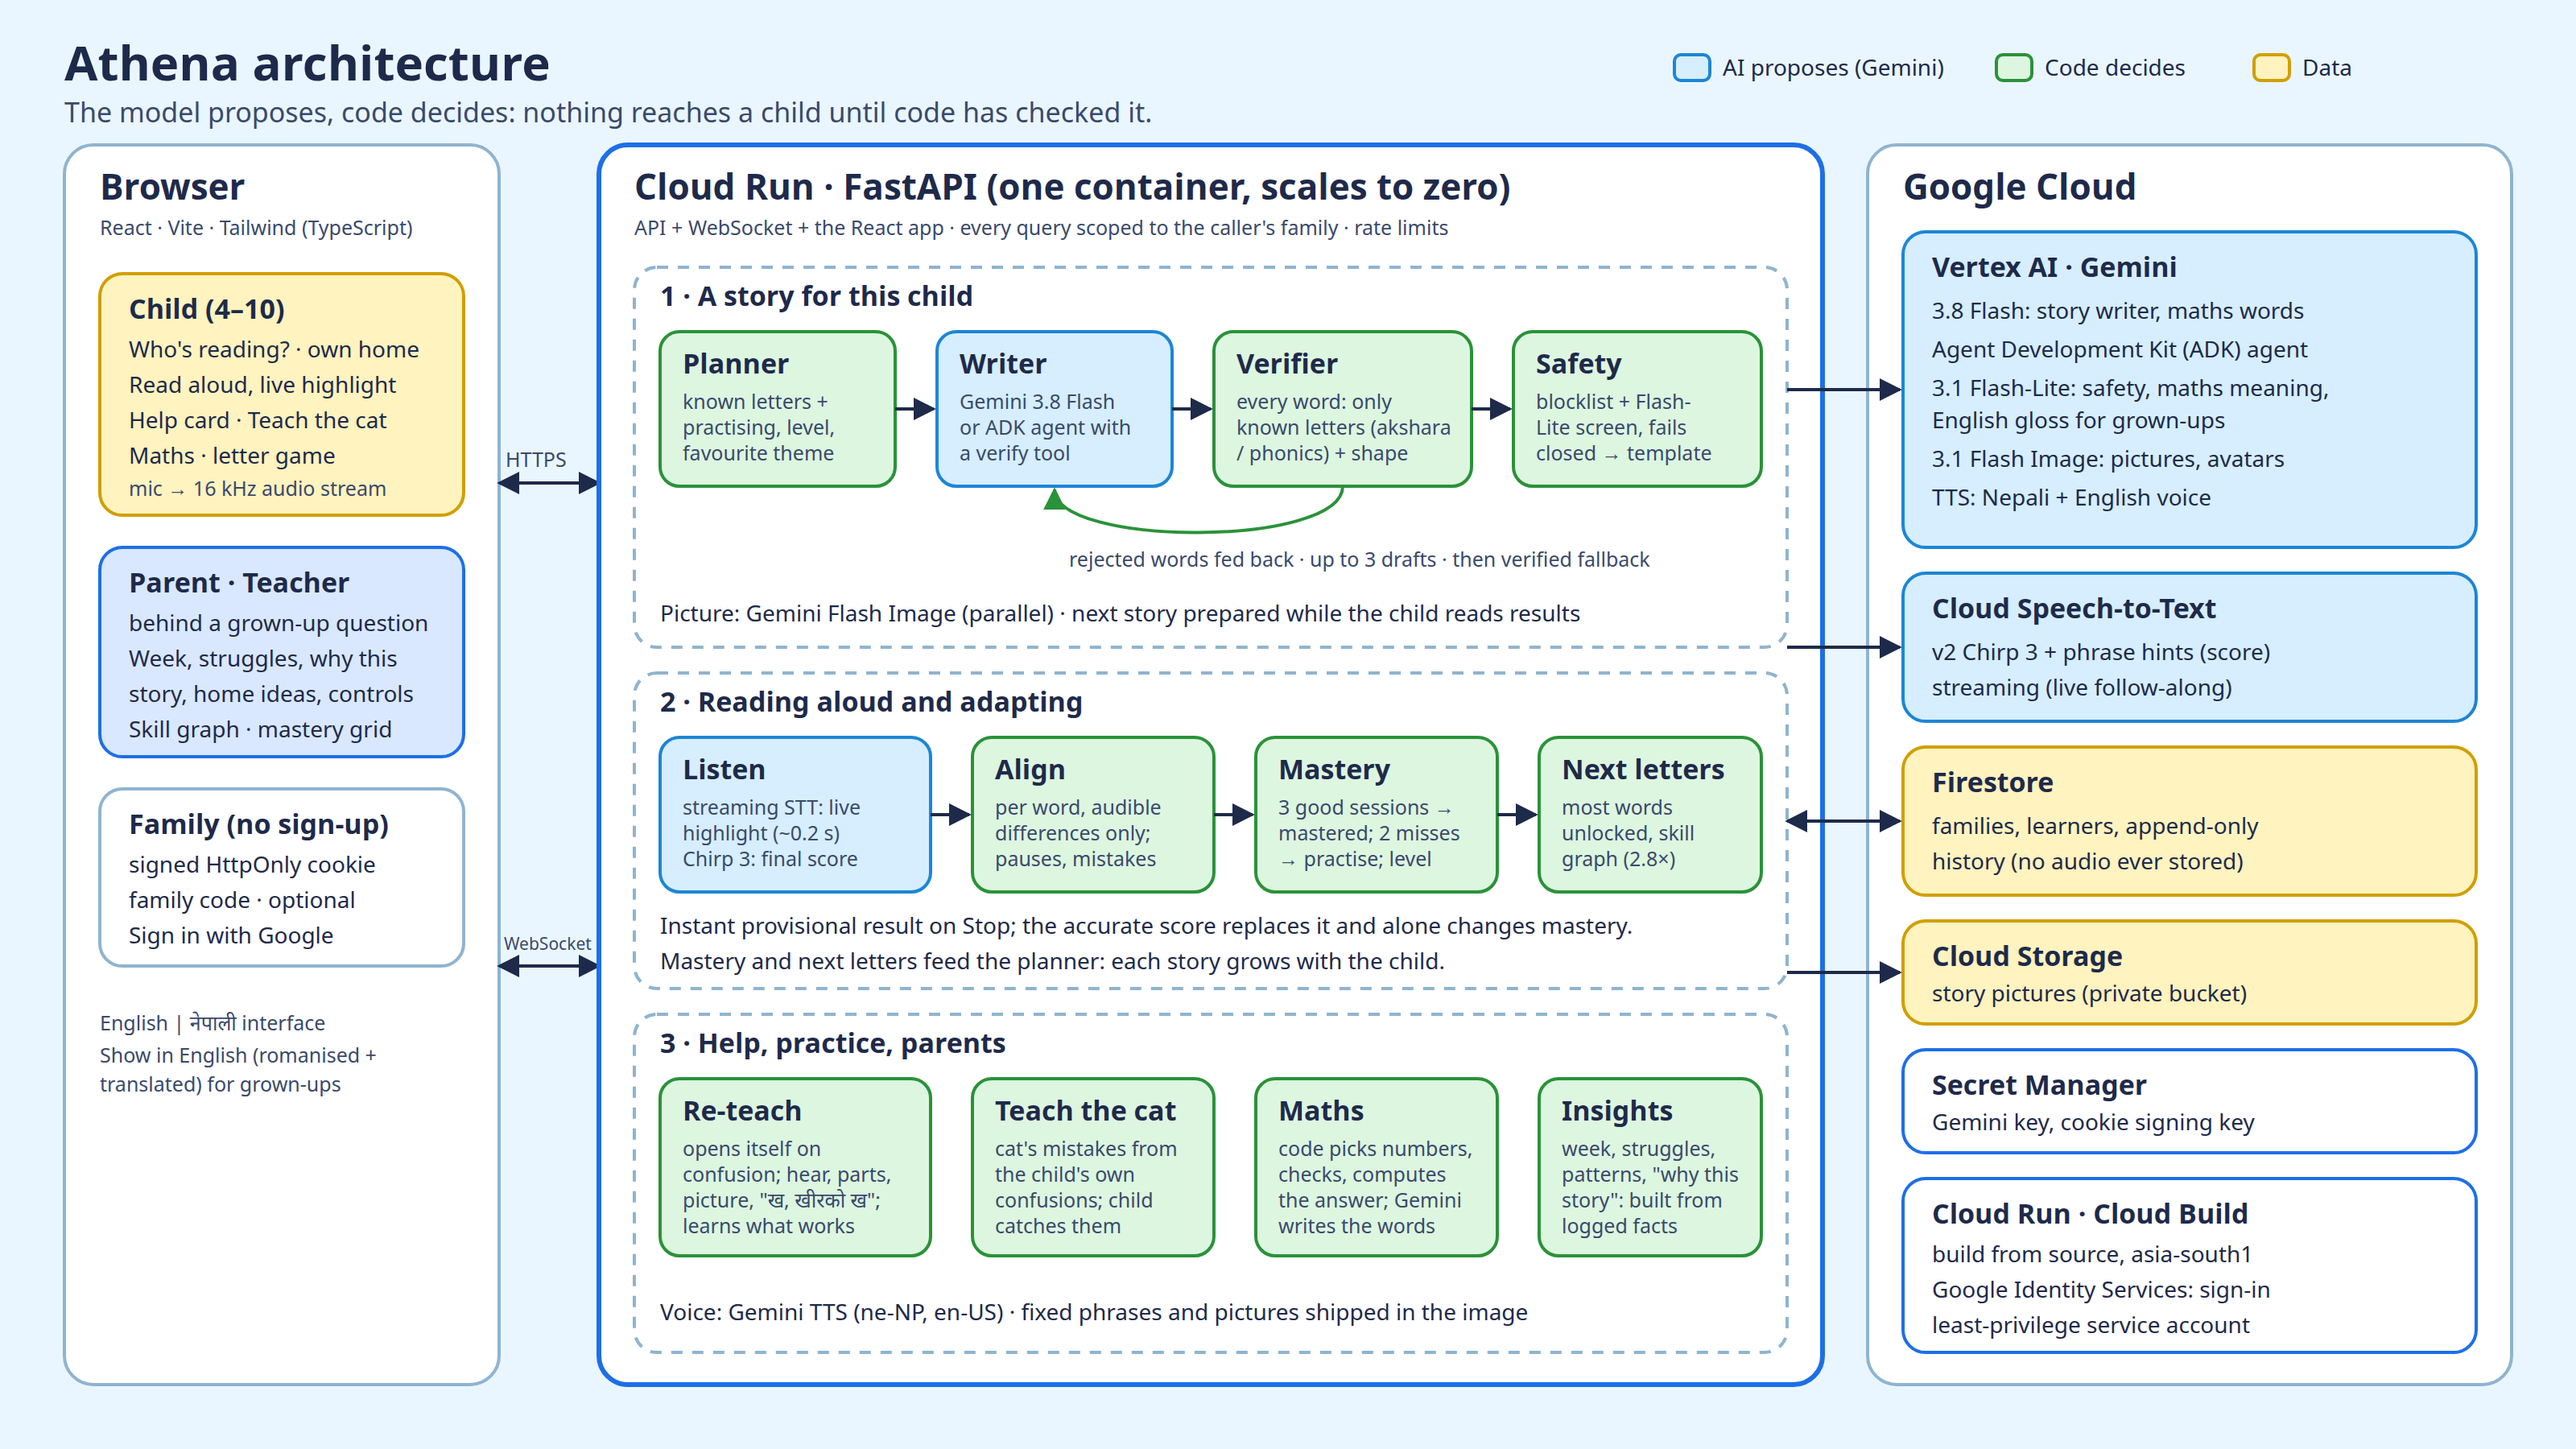
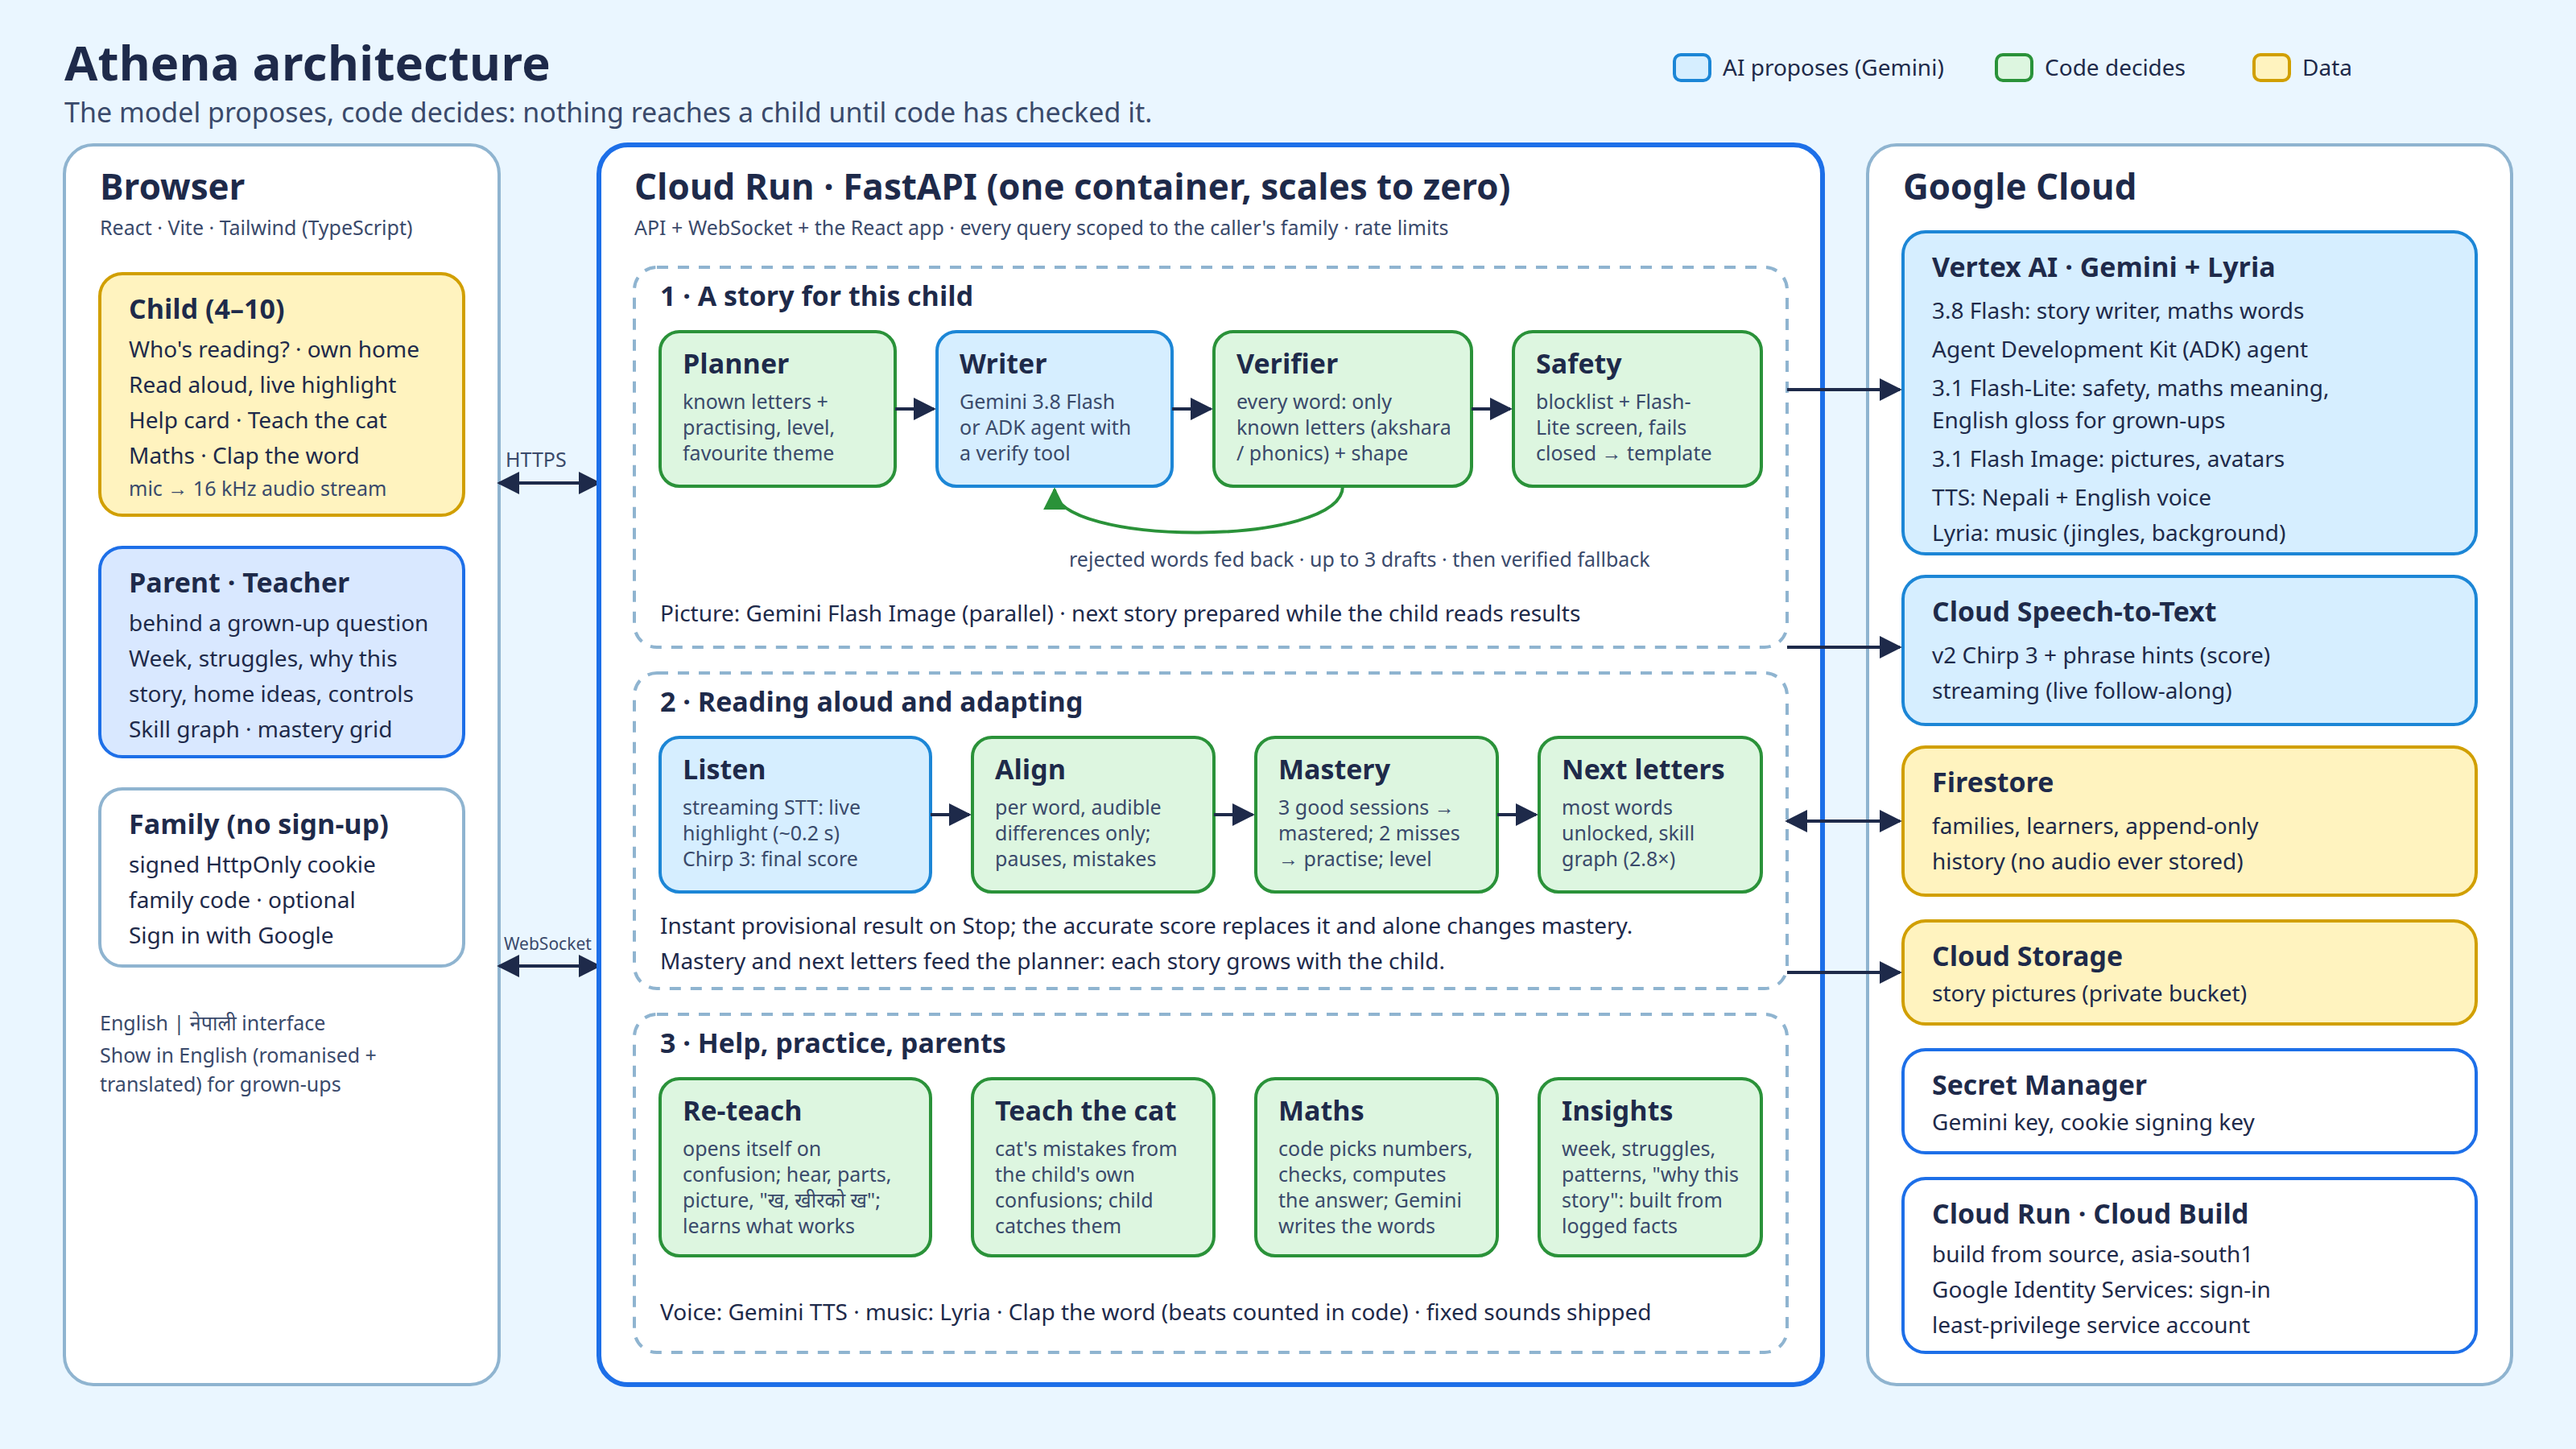
README and architecture: Clap the word, music with Lyria, 182 tests

Changed region(s): [[0.7188, 0.3422, 0.9688, 0.5289], [0.3438, 0.9022, 0.625, 0.9333], [0.0938, 0.3111, 0.125, 0.3422]]

diff --git a/README.md b/README.md
@@ -23,7 +23,8 @@ stuck, and the next story grows with them.
    read, and turn green the moment you stop. Tap any word for help ("t for tent, a for apple").
 3. Tap **Sita** → **नेपाली**. Every word uses only letters Sita knows. Press **Show in English**
    under the story to read it (romanised + translated).
-4. On a child's page try **Teach the cat**: the cat reads with mistakes and you catch them.
+4. On a child's page try **Teach the cat** (the cat reads with mistakes and you catch them) and
+   **Clap the word** (tap the drum once for each part of a word, with music).
 5. Open **For grown-ups** (type the number words as digits), then a **Parent view**: the week,
    what is hard, why each story was written, ideas for home, time and content controls.
 
@@ -50,6 +51,7 @@ child, today, with exactly their letters, and proves it fits before showing it.
 | **Adaptive lessons** | Stories written for the child's letters, about their favourite animal/food/game. The child picks one of three. Story size follows their level. Maths word problems they can read. |
 | **Detect confusion, re-teach differently** | Live follow-along notices long pauses and repeated mistakes on one letter, then opens a help card on its own: hear it, see its parts, see a picture, tie the letter to a known word ("ख, खीरको ख"). It learns which way works best for each child. Never says "wrong". |
 | **Teach the cat** | A child-sized Feynman technique: the cat reads with mistakes chosen from this child's own confusions, and the child catches them. |
+| **Clap the word, with music** | Phonological awareness through rhythm: the child taps once for each part of a word (सी·ता, rab·bit), over a soft music bed. The first word shows itself first. Beats are counted in code. Music by Lyria, made once and shipped. |
 | **Mastery over time** | A letter is mastered after three good sessions and goes back to practice after two misses. New letters come in the order that unlocks the most new words (2.8× more readable words at 40 letters than the textbook order), respecting a skill graph (a conjunct needs both its letters). |
 | **Parents** | This week, letters learned, struggle alerts, mistake patterns, why each story was written, home activities, daily time limit, content controls, every story and reading reviewable. |
 | **Safe and motivating** | Every story screened for child safety; first name only; no audio kept; stars and a daily goal, no streak pressure; private families; a grown-up question in front of grown-up pages. |
@@ -93,7 +95,7 @@ child, today, with exactly their letters, and proves it fits before showing it.
   cached and shared by all children.
 - **Native-speaker review** of generated Nepali (honorifics, gender agreement, idiom) and the fixes
   it led to: [eval/human_review.md](eval/human_review.md).
-- 179 automated tests (`pytest`), including a strict fake Firestore.
+- 182 automated tests (`pytest`), including a strict fake Firestore.
 
 ## Built on Google Cloud and Gemini
 
@@ -104,6 +106,7 @@ child, today, with exactly their letters, and proves it fits before showing it.
 | Safety screen, maths meaning check, English gloss | **Gemini 3.1 Flash-Lite** |
 | Illustrations, word pictures, avatars | **Gemini 3.1 Flash Image** |
 | Voice (Nepali has no Cloud TTS voice) | **Gemini TTS**, language-coded (`ne-NP`, `en-US`) |
+| Music (jingles, background beds) | **Lyria** on Vertex AI, generated once and shipped |
 | Scoring a reading | **Cloud Speech-to-Text v2, Chirp 3** with phrase hints |
 | Live follow-along | **Cloud Speech-to-Text** streaming over a WebSocket |
 | Hosting | **Cloud Run** (API, WebSocket and the React app in one container), scales to zero |
@@ -195,7 +198,7 @@ A Vertex key only works with `GOOGLE_GENAI_USE_VERTEXAI=true` (otherwise `403 AP
 | `/app` | Who's reading today? |
 | `/child/<id>` | A child's home: reading, maths, Teach the cat |
 | `/new` | Onboarding (one question per screen), then `/check/<id>/<lang>` (letter game) |
-| `/read/<id>/<ne\|en>`, `/maths/<id>/<lang>`, `/teach/<id>/<lang>` | Activities |
+| `/read/<id>/<ne\|en>`, `/maths/<id>/<lang>`, `/teach/<id>/<lang>`, `/clap/<id>/<lang>` | Activities |
 | `/grownups` | For grown-ups (behind the grown-up question): parent and teacher views, account, family code |
 | `/parent/<id>`, `/mastery/<id>`, `/parent/<id>/story/<story>` | Parent view, teacher view, story review |
 | `/styleguide` | Components from [DESIGN.md](DESIGN.md) |
@@ -206,7 +209,7 @@ types: `cd frontend && npx openapi-typescript http://localhost:8077/openapi.json
 ### Tests and evaluation
 
 ```bash
-.venv/bin/pytest                                    # 179 tests, no network
+.venv/bin/pytest                                    # 182 tests, no network
 cd frontend && npm run build                        # type-checks the frontend
 .venv/bin/python -u eval/run_eval.py --n 50 --workers 2   # Eval A: 100 stories, ~20 min
 .venv/bin/python eval/maths_eval.py --n 20          # maths problems
@@ -223,7 +226,8 @@ story has a violation. Keep `--workers 2`: Vertex returns 429 above about two co
 | `scripts/generate.py ne_basic --name सीता` | One story from a preset, with the verifier log |
 | `scripts/make_avatars.py` | Draw the 15 avatar characters into `frontend/public/avatars` |
 | `scripts/warm_pictures.py` | Draw every letter-anchor picture ahead of time (`media/pictures`) |
-| `scripts/warm_sounds.py` | Synthesise fixed phrases (letter game, praise) into `media/sounds` |
+| `scripts/warm_sounds.py` | Synthesise fixed phrases (letter game, praise, instructions) into `media/sounds` |
+| `scripts/make_music.py` | Make the music once with Lyria into `frontend/public/music` |
 | `scripts/build_ne_seed.py`, `scripts/build_en_lexicon.py` | Rebuild the word data |
 | `scripts/deploy.sh` | Deploy to Cloud Run (Secret Manager, bucket, service account, Firestore) |
 
@@ -249,6 +253,7 @@ athena/
   mastery.py, progression.py, skills.py      mastery rule, letter order, skill graph
   maths.py, maths_progress.py                maths problems, levels, progress
   reteach.py, teach.py, why.py, gloss.py     help card, Teach the cat, "why this story", English gloss
+  clap.py          Clap the word: beats per akshara / syllable
   family.py, store.py, firestore_store.py, history.py, demo.py   families, persistence, sample week
   api.py           FastAPI app (API, WebSocket, serves frontend/dist)
 frontend/          React + TypeScript + Tailwind v4 (tokens from DESIGN.md)
